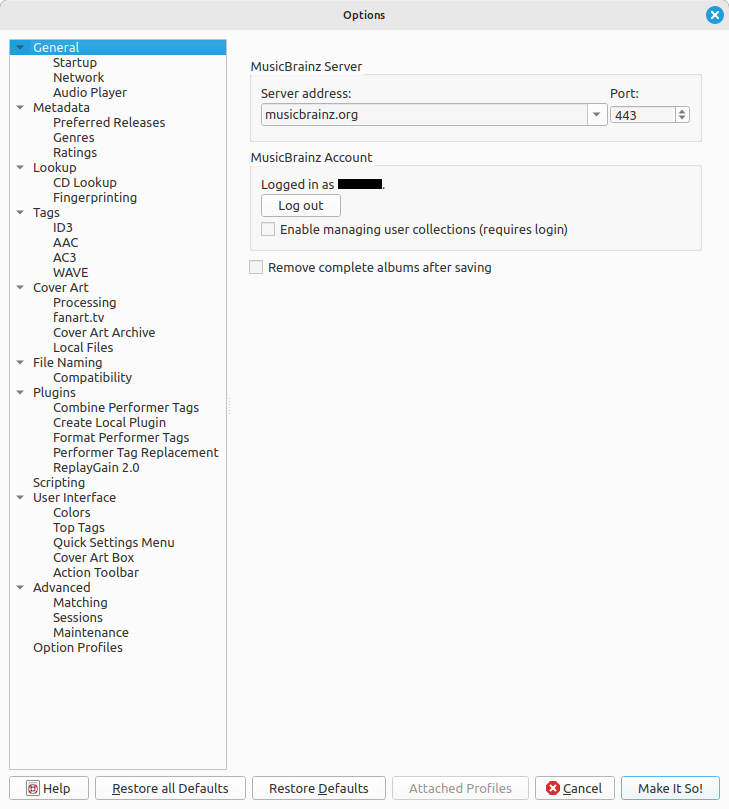
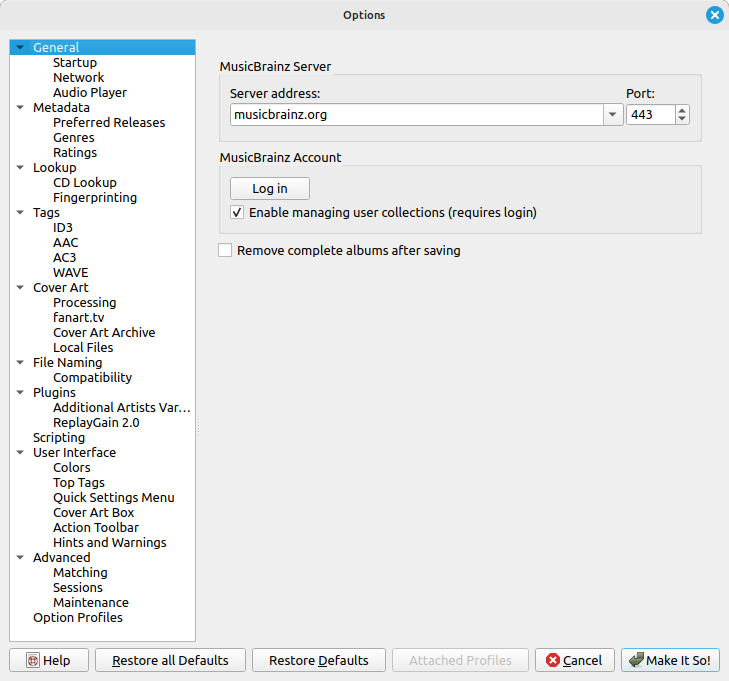
Add the new options page to enable / disable dialogs

diff --git a/config/options_interface.rst b/config/options_interface.rst
@@ -58,25 +58,7 @@
 
       When enabling the multiple directories option setting Picard will no longer use the system file picker for selecting directories. This may result in reduced functionality.
 
-.. _opt_interface_show_the_new_user_dialog:
-
-**Show the new user dialog when starting Picard**
-
-   When this is enabled, Picard will show a dialog intended for new users when you start the program. This displays a warning about the consequences of saving files, along with a suggestion for minimizing the impact until you have confirmed that your configuration produces the expected results. It also provides a link to the on-line documentation.
-
-.. _opt_interface_show_a_quit_confirmation_dialog:
-
-**Show a quit confirmation dialog for unsaved changes**
-
-   When this is enabled, Picard will show a dialog when you try to quit the program with unsaved files loaded. This may help prevent accidentally losing tag changes you've made, but not yet saved.
-
 .. _opt_interface_show_a_confirmation_dialog_when_saving:
-
-**Show a confirmation dialog when saving files**
-
-   When this is enabled, Picard will show a dialog when you save files, indicating what actions will be performed on the files and the number of files to be saved. This may help prevent accidentally making changes that you are not expecting.
-
-.. _opt_interface_adjust_horizontal_position_in_file_browser:
 
 **Adjust horizontal position in file browser automatically**
 
@@ -88,12 +70,6 @@
 
    By default, Picard remembers the last directory used to load files. If you enable this option and provide a directory, Picard will always start in the directory provided.
 
-.. _opt_interface_reset_tutorial_and_setup_wizard:
-
-**Reset tutorial and setup wizard**
-
-   This button will reset the tutorial and setup wizard to its initial state, showing both again on the next startup.
-
 .. only:: html and not epub
 
    .. seealso::
@@ -103,7 +79,8 @@
       :doc:`options_interface_top_tags` /
       :doc:`options_interface_quick_menu` /
       :doc:`options_interface_coverart_box` /
-      :doc:`options_interface_toolbar`
+      :doc:`options_interface_toolbar` /
+      :doc:`options_interface_hints`
 
 .. toctree::
    :hidden:
@@ -113,3 +90,4 @@
    options_interface_quick_menu
    options_interface_coverart_box
    options_interface_toolbar
+   options_interface_hints

diff --git a/config/options_interface_hints.rst b/config/options_interface_hints.rst
@@ -1,0 +1,61 @@
+.. MusicBrainz Picard Documentation Project
+
+:index:`Hints <pair: configuration; user interface hints>`
+===========================================================
+
+.. only:: not latex
+
+   .. image:: images/options-interface-hints.png
+      :align: center
+
+   |
+
+.. only:: latex
+
+   .. image:: images/options-interface-hints.png
+      :width: 75%
+      :align: center
+
+This options page allows you to enable or disable the display of various usage hints, tips, setup and warnings dialogs.
+
+.. _opt_interface_show_a_confirmation_dialog_when_saving:
+
+**File Save Warning**
+
+   When this is enabled, Picard will show a dialog when you save files, indicating what actions will be performed on the files and the number of files to be saved. This may help prevent accidentally making changes that you are not expecting.
+
+.. _opt_interface_show_the_new_user_dialog:
+
+**New User Warning**
+
+   When this is enabled, Picard will show a dialog intended for new users when you start the program. This displays a warning about the consequences of saving files, along with a suggestion for minimizing the impact until you have confirmed that your configuration produces the expected results. It also provides a link to the on-line documentation.
+
+.. _opt_interface_show_plugin_install_warning:
+
+**Plugin Installation Warning**
+
+   When this is enabled, Picard will show a dialog warning the user about potential unintended consequences when installing a plugin.
+
+.. _opt_interface_show_plugin_page_notes:
+
+**Plugin Page Notes**
+
+   When this is enabled, Picard will show a dialog explaining the way that the plugins options page operates differently from all other option pages.
+
+.. _opt_interface_show_unsaved_changes_dialog:
+
+**Unsaved Changes**
+
+   When this is enabled, Picard will show a dialog when you try to quit the program with unsaved files loaded. This may help prevent accidentally losing tag changes you've made, but not yet saved.
+
+.. _opt_interface_show_tutorial_tips:
+
+**Tutorial tips**
+
+   When this is enabled, Picard will show usage tips in the form of a tutorial when performing selected activities.
+
+.. _opt_interface_show_setup_wizard:
+
+**Show the setup wizard at startup**
+
+   When this is enabled, Picard will show the new user setup wizard when the program is started.
